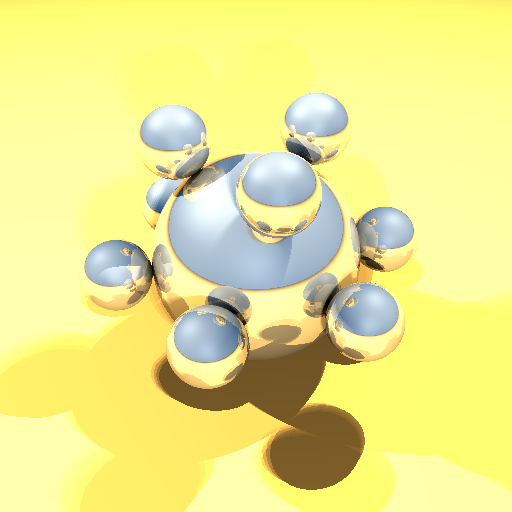
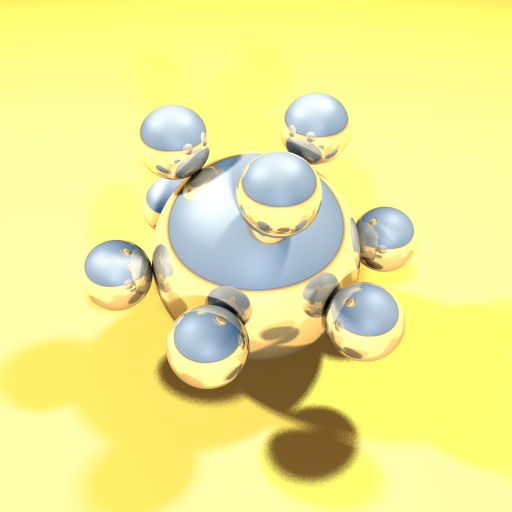
Added soft-shadows with jittering (closes #7)

diff --git a/MyRayTracer/main.cpp b/MyRayTracer/main.cpp
@@ -25,14 +25,16 @@
 #include "macros.h"
 
 //Enable OpenGL drawing.  
-bool drawModeEnabled = false;
+bool drawModeEnabled = true;
 
 bool P3F_scene = true; //choose between P3F scene or a built-in random scene
 
 bool ANTIALIASING = false;
-bool SOFT_SHADOWS = true;
+bool SOFT_SHADOWS = false;
 bool SOFT_SHADOWS_AA = false;
 bool DOF = false;
+
+#define ANTIALIASING_GRID 4
 
 // EXTRA
 bool SOFT_SHADOWS_JITTERING = false;
@@ -470,7 +472,7 @@ Color rayTracing(Ray ray, int depth, float ior_1)  //index of refraction of medi
 	// INTERSECTIONS
 	// -----------------------------------------------------------------------------
 
-	float t1, t2, closestInterseption;
+	float t1, t2, tClosest;
 	int closestObjIdx;
 	bool rayIntersepts = false;
 
@@ -478,14 +480,14 @@ Color rayTracing(Ray ray, int depth, float ior_1)  //index of refraction of medi
 	{
 		if (scene->getObject(i)->intercepts(ray, t1)) {
 			if (rayIntersepts) {
-				if (t1 < closestInterseption) {
+				if (t1 < tClosest) {
 					closestObjIdx = i;
-					closestInterseption = t1;
+					tClosest = t1;
 				}
 			}
 			else {
 				closestObjIdx = i;
-				closestInterseption = t1;
+				tClosest = t1;
 				rayIntersepts = true;
 			}
 		}
@@ -508,7 +510,7 @@ Color rayTracing(Ray ray, int depth, float ior_1)  //index of refraction of medi
 		specColor = scene->getObject(closestObjIdx)->GetMaterial()->GetSpecColor();
 		Color resultingColor = Color(.0f, .0f, .0f);
 
-		Vector hitPoint = ray.origin + (ray.direction * closestInterseption);
+		Vector hitPoint = ray.origin + (ray.direction * tClosest);
 		Vector normal = scene->getObject(closestObjIdx)->getNormal(hitPoint);
 
 		bool isInsideObject = normal * ray.direction > 0;
@@ -520,30 +522,39 @@ Color rayTracing(Ray ray, int depth, float ior_1)  //index of refraction of medi
 		{
 			bool inShadow = false;
 			int lightSamples = 1;
-			Vector a, b;
+			if (SOFT_SHADOWS) lightSamples = 4;
 
-			if (SOFT_SHADOWS_AA || SOFT_SHADOWS) {
+			Vector a, b;
+			if (SOFT_SHADOWS || SOFT_SHADOWS_AA || SOFT_SHADOWS_JITTERING) {
 				a = Vector(.5, 0, 0);
 				b = Vector(0, .5, 0);
-				lightSamples = 16;
 			}
-			
+
+
 			for (int i = 0; i < lightSamples; i++) {
 
 				Vector l;
 				Color lightSampleColor = Color(.0f, .0f, .0f);
 
-				if (SOFT_SHADOWS_AA) {
+				if (SOFT_SHADOWS) {
+					int areaLightSide = (int)sqrt(lightSamples);
+					int q = i / areaLightSide;
+					int p = i - (q * areaLightSide);
+					Vector randomVector = scene->getLight(j)->position + a * p * (1.0f / (areaLightSide - 1.0f)) + b * q * (1.0f / (areaLightSide - 1.0f));
+					l = randomVector - hitPoint;
+				}
+				else if (SOFT_SHADOWS_AA) {
 					double random1 = (double) rand() / (RAND_MAX);
 					double random2 = (double) rand() / (RAND_MAX);
 					Vector randomVector = scene->getLight(j)->position + a * random1 + b * random2;
 					l = randomVector - hitPoint;
 				}
-				else if (SOFT_SHADOWS) {
-					int areaLightSide = (int)sqrt(lightSamples);
-					int ksi2 = i / areaLightSide;
-					int ksi1 = i - (ksi2 * areaLightSide);
-					Vector randomVector = scene->getLight(j)->position + a * ksi1 * (1.0f / (areaLightSide - 1.0f)) + b * ksi2 * (1.0f / (areaLightSide - 1.0f));
+				else if (SOFT_SHADOWS_JITTERING) {
+					int p = floor<int>(rand() * ANTIALIASING_GRID / (RAND_MAX));
+					int q = floor<int>(rand() * ANTIALIASING_GRID / (RAND_MAX));
+					double random1 = (double)rand() / (RAND_MAX);
+					double random2 = (double)rand() / (RAND_MAX);
+					Vector randomVector = scene->getLight(j)->position + a * ((p + random1) / ANTIALIASING_GRID) + b * ((q + random2) / ANTIALIASING_GRID);
 					l = randomVector - hitPoint;
 				}
 				else {
@@ -560,9 +571,8 @@ Color rayTracing(Ray ray, int depth, float ior_1)  //index of refraction of medi
 					int k = 0;
 					while (!inShadow)
 					{
-						if (k >= scene->getNumObjects()) {
-							break;
-						}
+						if (k >= scene->getNumObjects()) break;
+
 						if (scene->getObject(k)->intercepts(shadowFeeler, t2)) {
 							if (t2 < lightDistance)  // check if the shadow is being casted by an object in front of the light source
 							{
@@ -604,10 +614,7 @@ Color rayTracing(Ray ray, int depth, float ior_1)  //index of refraction of medi
 
 		}
 
-		/*cout << "NEW RESULTING COLOR" << endl;
-		cout << resultingColor.r() << endl;*/
-
-		//return resultingColor;
+		// return resultingColor;
 
 
 		// -----------------------------------------------------------------------------
@@ -624,38 +631,35 @@ Color rayTracing(Ray ray, int depth, float ior_1)  //index of refraction of medi
 
 			float reflection = scene->getObject(closestObjIdx)->GetMaterial()->GetReflection();
 			float T = scene->getObject(closestObjIdx)->GetMaterial()->GetTransmittance();
-
-			float ior_2 = isInsideObject ? 1 : scene->getObject(closestObjIdx)->GetMaterial()->GetRefrIndex(); 
-			float R0 = pow((ior_1 - ior_2) / (ior_1 + ior_2), 2);
+			float ior_2 = isInsideObject ? 1.0f : scene->getObject(closestObjIdx)->GetMaterial()->GetRefrIndex(); 
 
 			Vector vt = (normal * (v * normal)) - v;
-
 			float sinI, cosI, sinT, cosT, kr;
 			sinI = vt.length();
-			cosI = sqrt(1 - pow(sinI, 2));
+			cosI = sqrt(1 - pow(sinI, 2.0f));
 			sinT = (ior_1 / ior_2) * sinI;
 
 			if (sinT > 1 || T == 0) {  // total reflection or non-dieletric material
-				kr = 1.0f;
+
+				if (reflection > 0) resultingColor += rayTracing(reflectedRay, depth + 1, ior_1) * specColor * reflection;
+					
 			}
 			else {
+				float R0 = pow((ior_1 - ior_2) / (ior_1 + ior_2), 2);
 				cosT = sqrt(1 - pow(sinT, 2));
 				float cos = isInsideObject ? cosT : cosI;
 				kr = R0 + (1.0f - R0) * pow(1.0f - cos, 5);
-			}
+				
+				// reflection
+				if (reflection > 0) resultingColor += rayTracing(reflectedRay, depth + 1, ior_1) * specColor * kr;
 
-			if (reflection > 0) {  // reflection
-				resultingColor += rayTracing(reflectedRay, depth + 1, ior_1) * specColor * reflection * kr;
-			}
-
-			if (T > 0 && sinT <= 1) {  // refraction (dieletric material and non-total reflection)
-					Vector rt = vt.normalize() * sinT - normal * cosT;
-					Ray transmittedRay = Ray(hitPoint - bias, rt);
-					resultingColor += rayTracing(transmittedRay, depth + 1, ior_2) * diffColor * (1 - kr);
+				// refraction (dieletric material and non-total reflection)
+				Vector rt = vt.normalize() * sinT - normal * cosT;
+				Ray transmittedRay = Ray(hitPoint - bias, rt);
+				resultingColor += rayTracing(transmittedRay, depth + 1, ior_2) * diffColor * (1 - kr);
 			}
 
 			return resultingColor;
-
 		}
 	}
 }
@@ -666,7 +670,6 @@ Color rayTracing(Ray ray, int depth, float ior_1)  //index of refraction of medi
 
 void renderScene()
 {
-	int n = 4;
 	int index_pos = 0;
 	int index_col = 0;
 	unsigned int counter = 0;
@@ -686,20 +689,20 @@ void renderScene()
 			
 			/* ANTI-ALIASING */
 			if (ANTIALIASING) {
-				for (float i = 0; i < n; i++) {
-					for (float j = 0; j < n; j++) {
+				for (float i = 0; i < ANTIALIASING_GRID; i++) {
+					for (float j = 0; j < ANTIALIASING_GRID; j++) {
 
 						double ksi1 = (double) rand() / (RAND_MAX);
 						double ksi2 = (double) rand() / (RAND_MAX);
 
 						//viewport coordinates
 						
-						pixel.x = x + (i + ksi1) / n;
-						pixel.y = y + (j + ksi2) / n;
+						pixel.x = x + (i + ksi1) / ANTIALIASING_GRID;
+						pixel.y = y + (j + ksi2) / ANTIALIASING_GRID;
 
 						Ray ray = scene->GetCamera()->PrimaryRay(pixel);   //function from camera.h
 
-						color += rayTracing(ray, 1, 1.0).clamp() * (float) (1 / pow(n, 2));
+						color += rayTracing(ray, 1, 1.0).clamp() * (float) (1 / pow(ANTIALIASING_GRID, 2));
 					}
 				}
 			}

diff --git a/MyRayTracer/scene.cpp b/MyRayTracer/scene.cpp
@@ -18,12 +18,14 @@ Triangle::Triangle(Vector& P0, Vector& P1, Vector& P2)
 
 	//YOUR CODE to Calculate the Min and Max for bounding box
 
-	float xMin = min({ P0.x, P1.x, P2.x });
-	float yMin = min({ P0.y, P1.y, P2.y });
-	float zMin = min({ P0.z, P1.z, P2.z });
-	float xMax = max({ P0.x, P1.x, P2.x });
-	float yMax = max({ P0.y, P1.y, P2.y });
-	float zMax = max({ P0.z, P1.z, P2.z });
+	float xMin = MIN3(P0.x, P1.x, P2.x);
+	float yMin = MIN3(P0.y, P1.y, P2.y);
+	float zMin = MIN3(P0.z, P1.z, P2.z);
+
+	float xMax = MAX3(P0.x, P1.x, P2.x);
+	float yMax = MAX3(P0.y, P1.y, P2.y);
+	float zMax = MAX3(P0.z, P1.z, P2.z);
+
 	Min = Vector(xMin, yMin, zMin);
 	Max = Vector(xMax, yMax, zMax);
 
@@ -135,14 +137,12 @@ AABB Sphere::GetBoundingBox() {
 	Vector a_min = center;
 	Vector a_max = center;
 
-	a_min.x -= radius;
-	a_min.y -= radius;
-	a_min.z -= radius;
+	a_min -= radius;
+	a_max += radius;
 
-	a_max.x += radius;
-	a_max.y += radius;
-	a_max.z += radius;
-	
+	a_min -= EPSILON;
+	a_max += EPSILON;
+
 	return(AABB(a_min, a_max));
 }
 
